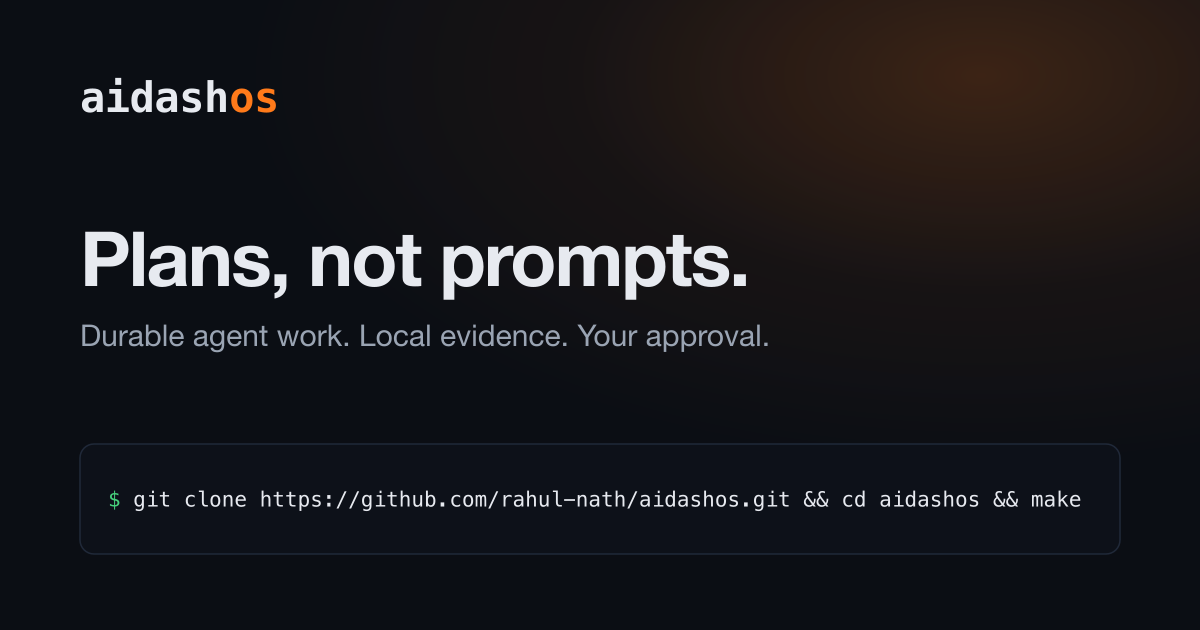
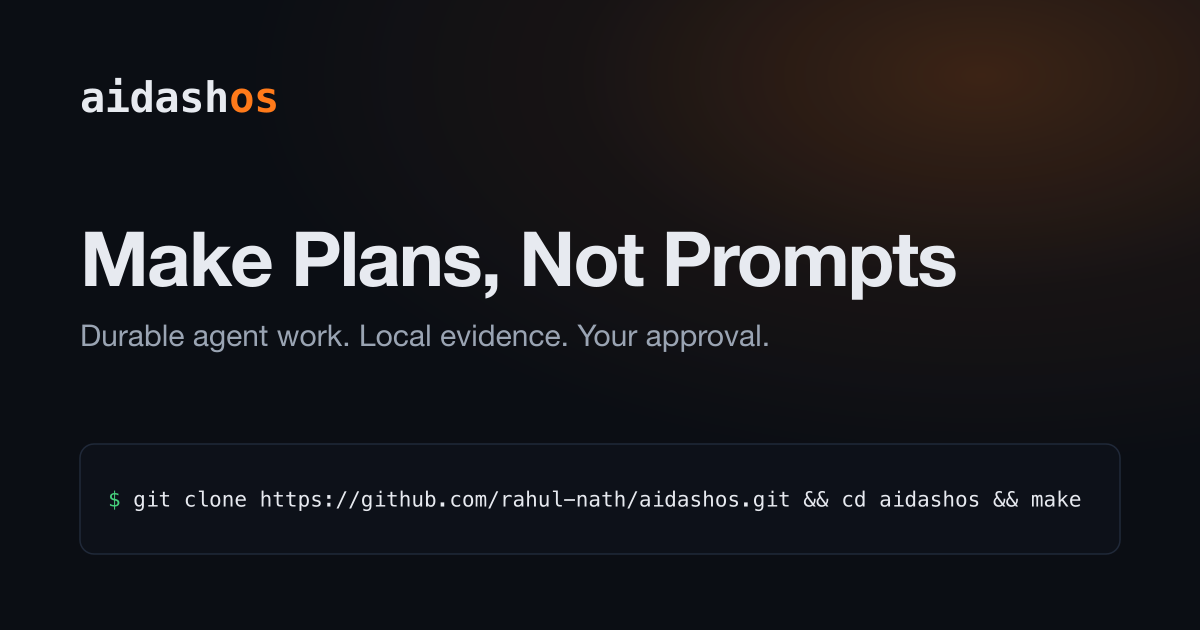
feat(site): launch plans-first homepage and founder about page

Changed region(s): [[0.0617, 0.3619, 0.8017, 0.4825]]

diff --git a/landing_page_website/src/App.tsx b/landing_page_website/src/App.tsx
@@ -9,7 +9,7 @@ import {
 } from "./content";
 import { track } from "./telemetry";
 
-export type PagePath = "/" | "/quickstart/" | "/docs/";
+export type PagePath = "/" | "/quickstart/" | "/docs/" | "/about/";
 
 export interface PageMetadata {
   path: PagePath;
@@ -20,7 +20,7 @@ export interface PageMetadata {
 export const STATIC_ROUTES: readonly PageMetadata[] = [
   {
     path: "/",
-    title: "aidashos - plans, not prompts",
+    title: "Make Plans, Not Prompts - aidashos",
     description:
       "Give your coding agent a local path from design document to independently reviewed, approval-gated change.",
   },
@@ -36,6 +36,12 @@ export const STATIC_ROUTES: readonly PageMetadata[] = [
     description:
       "Start, operate, and understand aidashos through its focused guides and architecture references.",
   },
+  {
+    path: "/about/",
+    title: "About Rahul Nath - aidashos",
+    description:
+      "Why Rahul Nath is building aidashos: local models, durable human supervision, and useful personal interaction history.",
+  },
 ] as const;
 
 export function normalizePagePath(pathname: string): PagePath {
@@ -45,6 +51,9 @@ export function normalizePagePath(pathname: string): PagePath {
   }
   if (barePath === "/docs" || barePath === "/docs/") {
     return "/docs/";
+  }
+  if (barePath === "/about" || barePath === "/about/") {
+    return "/about/";
   }
   return "/";
 }
@@ -123,8 +132,9 @@ function SiteHeader({ path }: { path: PagePath }) {
         aidash<span className="wordmark-accent">os</span>
       </a>
       <nav aria-label="Site">
-        <a href="/" aria-current={current("/")}>Home</a>
-        <a href="/quickstart/" aria-current={current("/quickstart/")}>Quickstart</a>
+        <a href="/about/" aria-current={current("/about/")}>About</a>
+        <a href="/#how">How it works</a>
+        <a href="/#faq">FAQ</a>
         <a href="/docs/" aria-current={current("/docs/")}>Docs</a>
         <a
           className="github-link"
@@ -155,24 +165,47 @@ function HomePage() {
   return (
     <>
       <section className="hero">
-        <p className="kicker">Local-first delivery for coding agents</p>
-        <h1>Plans, not prompts.</h1>
+        <p className="kicker">A local-first agent OS</p>
+        <h1>Make Plans, Not Prompts</h1>
         <p className="lede">
-          When work needs more than a chat, give your current AI a local path from design
-          document to independently reviewed, approval-gated change.
+          aidashos turns a design document into governed agent work on your own machine:
+          compiled plans, isolated worktrees, your project's own test commands, cross-vendor
+          review, and an approval gate before anything merges. Closing your laptop never
+          loses aidashos system state.
         </p>
         <ul className="badges" aria-label="Properties">
-          <li>Local control state</li>
-          <li>Durable plans</li>
-          <li>Subscription agents</li>
-          <li>Local models</li>
-          <li>Human gates</li>
+          <li>Local-first</li>
+          <li>Durable</li>
+          <li>No cloud backend</li>
+          <li>AGPL-3.0</li>
         </ul>
         <div className="hero-actions">
-          <a className="cta" href="/quickstart/">Install with your agent</a>
-          <a className="secondary-cta" href="/docs/">Read the docs</a>
+          <a
+            className="cta"
+            href={GITHUB_URL}
+            rel="noopener"
+            onClick={() => track("click_github", { where: "hero" })}
+          >
+            View Source
+          </a>
         </div>
-        <p className="release-note">Public developer preview. macOS is the supported platform today.</p>
+        <p className="release-note">
+          Public developer preview. No signup and no hosted account. The repository is the product.
+        </p>
+      </section>
+
+      <section className="agent-install" aria-labelledby="agent-install-title">
+        {/*
+          <h2>Install: one lane, end to end</h2>
+          <Terminal />
+        */}
+        <h2 id="agent-install-title">Hand your local agent these prompts to install aidashos</h2>
+        <p className="section-lede">
+          Three prompts, in order, for any AI tool with shell access (Claude Code, Codex, or
+          anything else). They drive the same scripts and leave the sign-ins and big-download
+          confirmations to you.
+        </p>
+        <PromptSequence />
       </section>
 
       <section className="proofs" aria-labelledby="proofs-title">
@@ -188,7 +221,7 @@ function HomePage() {
         </div>
       </section>
 
-      <section className="plan-path" aria-labelledby="plan-path-title">
+      <section id="how" className="plan-path" aria-labelledby="plan-path-title">
         <p className="kicker">Design to decision</p>
         <h2 id="plan-path-title">Four steps, one durable record</h2>
         <ol className="lane-steps plan-steps">
@@ -217,9 +250,46 @@ function HomePage() {
         </p>
       </section>
 
+      <section id="faq" className="faq" aria-labelledby="faq-title">
+        <h2 id="faq-title">Questions with real answers</h2>
+        <details>
+          <summary>Does it run in the cloud?</summary>
+          <p>
+            The control plane runs on your machine with a local Postgres ledger.
+            Local models run on your hardware. Configured frontier agents connect to
+            their providers through your installed CLIs and accounts.
+          </p>
+        </details>
+        <details>
+          <summary>What happens if I close the laptop?</summary>
+          <p>
+            Plans, attempts, artifacts, reviews, and approvals are stored in Postgres.
+            A sleeping laptop pauses local computation. When you return, the system can
+            use its retained state to recover work; an interrupted agent may need a new attempt.
+          </p>
+        </details>
+        <details>
+          <summary>What do I need to run it?</summary>
+          <p>
+            macOS is the supported platform today. The <a href="/quickstart/">quickstart</a>
+            {" "}covers the local runtime, model setup, and attaching your AI tool.
+            Large downloads and interactive sign-ins stay under your control.
+          </p>
+        </details>
+        <details>
+          <summary>Is aidashos finished?</summary>
+          <p>
+            No. This is a public developer preview, and bugs and incomplete features remain.
+            Your coding agent can help inspect failures and debug setup or milestones.
+            Read the <a href={`${GITHUB_URL}/issues`}>open issues</a> or
+            {" "}<a href="/about/">get involved</a>.
+          </p>
+        </details>
+      </section>
+
       <section className="closing compact-closing">
         <h2>Give the next hard task a plan.</h2>
-        <a className="cta" href="/quickstart/">Open the quickstart</a>
+        <a className="cta" href={GITHUB_URL}>View Source</a>
       </section>
     </>
   );
@@ -230,7 +300,7 @@ function QuickstartPage() {
     <>
       <section className="page-intro">
         <p className="kicker">Quickstart</p>
-        <h1>Install it yourself, or hand the lane to your agent.</h1>
+        <h1>Set up aidashos on your Mac.</h1>
         <p className="lede">
           Both paths run the same checked-in scripts. Large model downloads and interactive
           subscription sign-ins stay under your control.
@@ -243,7 +313,7 @@ function QuickstartPage() {
       </section>
 
       <section className="agent-install" aria-labelledby="agent-install-title">
-        <h2 id="agent-install-title">Or give the setup to your coding agent</h2>
+        <h2 id="agent-install-title">Hand your local agent these prompts to install aidashos</h2>
         <p className="section-lede">
           Copy these prompts in order. They inspect first, ask before large downloads, and
           hand interactive sign-ins back to you.
@@ -315,8 +385,46 @@ function DocsPage() {
       </section>
 
       <section className="closing compact-closing">
-        <h2>Ready to run the lane?</h2>
+        <h2>Ready to get started?</h2>
         <a className="cta" href="/quickstart/">Open the quickstart</a>
+      </section>
+    </>
+  );
+}
+
+function AboutPage() {
+  return (
+    <>
+      <section className="page-intro about-intro">
+        <p className="kicker">About</p>
+        <img className="about-portrait" src="/rahul-nath-linkedin.jpg" width="80" height="80" alt="Rahul Nath" />
+        <h1>I'm Rahul Nath.</h1>
+        <p className="lede">
+          I worked on identity and authentication infrastructure at Meta and founded a
+          profitable livestreaming startup. Now I'm building aidashos around a bet on local intelligence.
+        </p>
+      </section>
+
+      <section className="about-copy" aria-labelledby="about-bet-title">
+        <h2 id="about-bet-title">My bet: local models will dominate.</h2>
+        <p>
+          I think local models will eventually dominate, even at the level of AGI.
+          As more intelligence runs on our own machines, we'll need a durable way for
+          humans to interact with it, supervise it, and decide what it can do.
+        </p>
+        <p>
+          That's the direction behind aidashos: plans, decisions, work, and feedback that
+          outlive any one agent session. The history of those interactions could become
+          useful in many ways to each person running the system, from remembering why a
+          decision was made to learning from past work and shaping how their agents help them.
+        </p>
+        <p>
+          There's a lot of work to do on this. If you're interested, DM me on
+          {" "}<a href="https://www.instagram.com/rah_juul/" rel="noopener">Instagram (@rah_juul)</a>,
+          {" "}<a href="https://twitter.com/rahulkindarules" rel="noopener">Twitter (@rahulkindarules)</a>,
+          {" "}or <a href="https://www.linkedin.com/in/rahul-nath-753a3052/" rel="noopener">LinkedIn</a>.
+        </p>
+        <a className="cta" href={GITHUB_URL}>View Source</a>
       </section>
     </>
   );
@@ -341,7 +449,7 @@ function SiteFooter() {
 
 export function App({ pathname = "/" }: { pathname?: string }) {
   const path = normalizePagePath(pathname);
-  const page = path === "/quickstart/" ? <QuickstartPage /> : path === "/docs/" ? <DocsPage /> : <HomePage />;
+  const page = path === "/quickstart/" ? <QuickstartPage /> : path === "/docs/" ? <DocsPage /> : path === "/about/" ? <AboutPage /> : <HomePage />;
 
   return (
     <>

diff --git a/landing_page_website/src/styles.css b/landing_page_website/src/styles.css
@@ -622,7 +622,14 @@ section h2 {
   }
 
   .prompt-head {
-    flex-wrap: wrap;
+    display: grid;
+    grid-template-columns: auto minmax(0, 1fr);
+  }
+
+  .prompt-head > .copy {
+    grid-column: 2;
+    justify-self: start;
+    min-height: 44px;
   }
 
   .stack table {
@@ -817,5 +824,44 @@ section h2 {
   .routing-rule-head {
     align-items: flex-start;
     flex-direction: column;
+  }
+}
+
+/* About keeps personal context readable without competing with the product. */
+.about-copy {
+  padding-top: 2rem;
+}
+
+.about-copy p {
+  color: var(--muted);
+  max-width: 46rem;
+  font-size: 1.06rem;
+  margin: 0 0 1.25rem;
+}
+
+.about-portrait {
+  width: 80px;
+  height: 80px;
+  object-fit: cover;
+  border-radius: 50%;
+  border: 1px solid var(--border);
+  margin-bottom: 1rem;
+}
+
+@media (max-width: 560px) {
+  .site-header {
+    flex-wrap: wrap;
+  }
+
+  .site-header nav {
+    align-items: center;
+    justify-content: flex-start;
+    gap: 0.4rem 1rem;
+  }
+
+  .site-header nav a {
+    min-height: 44px;
+    display: inline-flex;
+    align-items: center;
   }
 }

diff --git a/landing_page_website/src/components/PromptSequence.tsx b/landing_page_website/src/components/PromptSequence.tsx
@@ -1,9 +1,8 @@
 import { PROMPTS } from "../content";
 import { CopyButton } from "./CopyButton";
 
-// The prompt cards sit directly under the terminal on purpose: the clone
-// command is the human's step, and these are the agent's. Each copy button is
-// a funnel event, which is the only measurement this page takes.
+// Both the homepage and quickstart render this canonical prompt sequence.
+// Copy controls use the same source text as the expandable preview.
 export function PromptSequence() {
   return (
     <div className="prompt-sequence">

diff --git a/landing_page_website/README.md b/landing_page_website/README.md
@@ -1,7 +1,8 @@
 # aidashos.com
 
 This package builds the public aidashos website.
-The homepage carries the short product promise, while `/quickstart/` and `/docs/` own setup and reference links.
+The homepage carries the product promise and agent setup prompts.
+`/quickstart/` and `/docs/` provide setup and reference links; `/about/` describes Rahul Nath's reason for building aidashos.
 
 ## Single-source onboarding
 
@@ -18,12 +19,13 @@ npm run build
 npm run preview
 ```
 
-The build emits three prerendered static routes:
+The build emits four prerendered static routes:
 
 ```text
 dist/index.html
 dist/quickstart/index.html
 dist/docs/index.html
+dist/about/index.html
 ```
 
 `src/App.tsx` owns the route table, visible content, and metadata.
@@ -31,12 +33,18 @@ dist/docs/index.html
 
 ## Deploying to aidashos.com
 
-The production site is served by GitHub Pages from the derived `gh-pages` branch.
+The static output is configured for Netlify by `netlify.toml`.
+For a repository-connected deployment, the base directory is `landing_page_website`, the build command is `npm run build`, and the publish directory is `dist` relative to the base.
+A manual deployment uploads the contents of `dist/`.
+`public/_headers` is copied into that output, so the same security and cache headers apply to both deployment paths.
 
-- Build from this directory.
-- Publish the contents of `dist/` at the branch root without editing generated files.
-- Keep the Pages custom domain and every canonical URL under `https://www.aidashos.com/`.
-- Treat hosting, DNS, and deployment changes as separate operator decisions.
+Keep the primary custom domain and canonical URLs under `https://www.aidashos.com/`.
+Configure `aidashos.com` as an alias of the primary domain and enable Netlify's managed TLS certificate and HTTPS redirect.
+Verify the exact candidate on its Netlify URL before replacing the old DNS records.
+Verify both custom hostnames over HTTPS before disabling the previous GitHub Pages deployment.
+
+Every public route is a prerendered directory index, so no single-page-app catch-all rewrite is needed.
+Hashed assets have long immutable cache lifetimes; HTML must revalidate to receive new releases.
 
 ## Telemetry
 

diff --git a/docs/onboarding/BOOT_PROMPT.md b/docs/onboarding/BOOT_PROMPT.md
@@ -1,13 +1,19 @@
 # The boot prompt
 
-Paste the block below into any local AI agent (Claude Code, Codex, or another tool with shell access) opened at the repo root.
+Paste the block below into any local AI agent (Claude Code, Codex, or another tool with shell access).
+It checks for an existing checkout or asks where to create one before continuing from the repo root.
 It drives the same stages as `./scripts/boot/boot.sh`, one at a time, and leaves the sign-ins and the big-download confirmations to you.
 
 The canonical copy of this text is [prompts.json](prompts.json), which the aidashos.com landing page renders with copy buttons.
 `tests/test_onboarding_prompts.py` pins this file to it, so edit the JSON first.
 
 ```text
-You are working inside a fresh clone of aidashos, a local-first agent OS. Read scripts/boot/README.md and docs/onboarding/ONBOARDING.md before acting.
+Help me set up aidashos, a local-first agent OS.
+First inspect the current workspace for an existing aidashos checkout and preserve any local changes.
+If there is no checkout, ask me which parent directory to use, then clone https://github.com/rahul-nath/aidashos.git into a new aidashos directory there.
+Never overwrite, delete, reset, or repurpose an existing directory; if that destination exists, ask me to select the existing checkout or choose another location.
+Work from the verified checkout root.
+Read scripts/boot/README.md and docs/onboarding/ONBOARDING.md before acting.
 
 Then complete the boot sequence:
 
